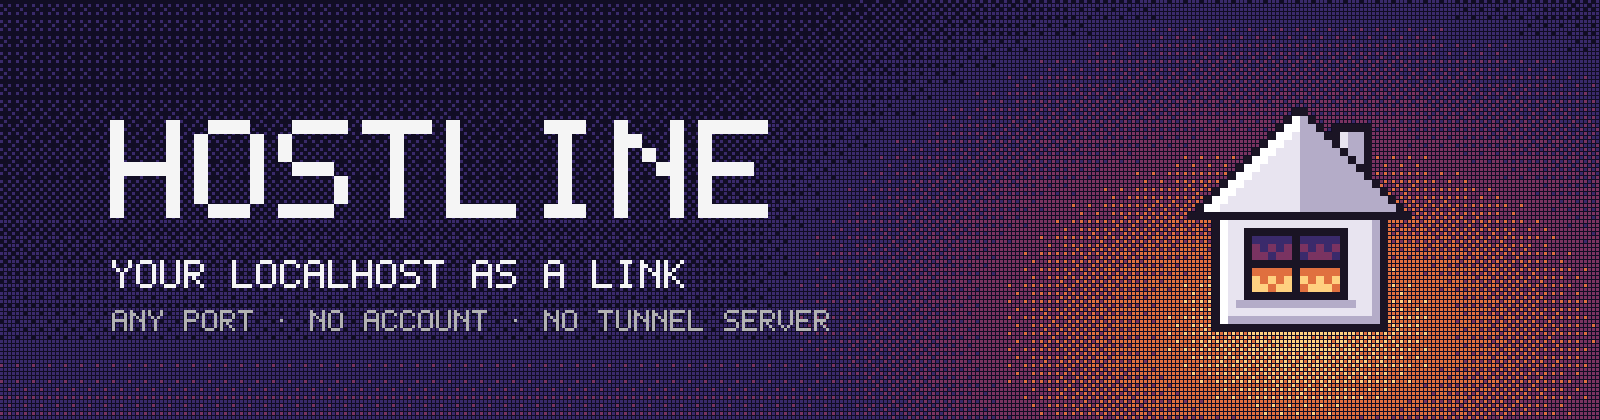
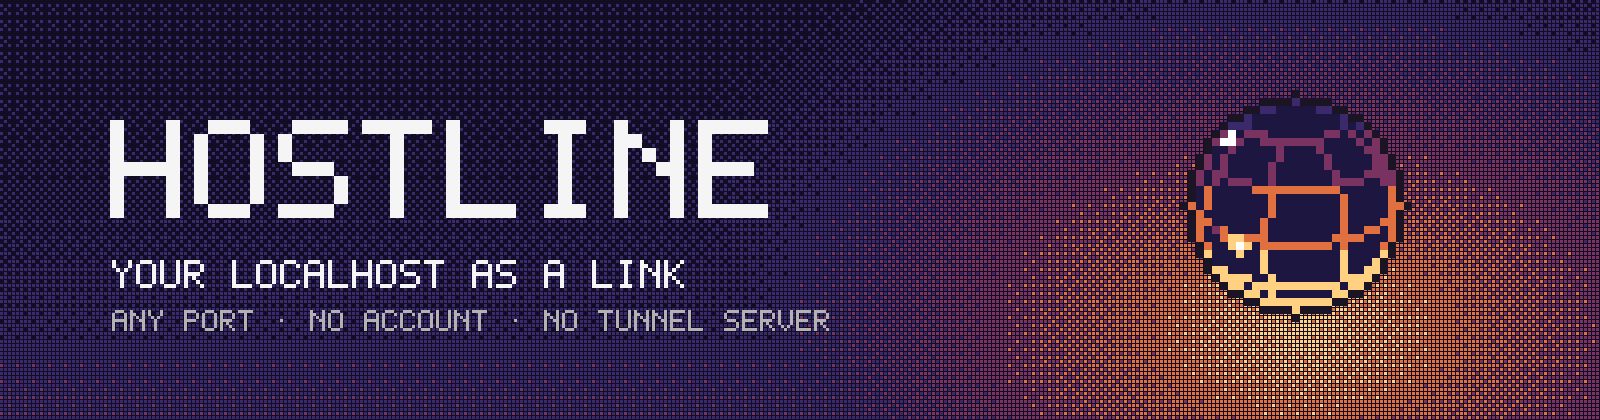
feat: replace the house mark with a turning globe

Changed region(s): [[0.7188, 0.2167, 0.875, 0.8048]]

diff --git a/tools/logo.py b/tools/logo.py
@@ -2,21 +2,24 @@
 
     python tools/logo.py
 
-assets/icon.png (512), assets/mark.png, assets/mark-lit.png and assets/mark-out.png (32: the
-window with its dusk, lit, and out), assets/banner.webp (the README header, its window lighting
-up) with assets/banner.png (the same banner, still, for reduced motion) and assets/preview.png
-(1200x630, the link preview of hostline.luannzin.com).
+assets/icon.png (512), assets/mark.png and assets/mark-out.png (32: the globe in the dusk, and
+out), assets/mark-spin.png and assets/mark-spin-lit.png (the globe turning in the dusk and lit,
+SPIN frames of 32x32 side by side, for the page a link opens), assets/banner.webp (the
+README header, the globe turning) with assets/banner.png (the same banner, still, for reduced
+motion) and assets/preview.png (1200x630, the link preview of hostline.luannzin.com).
 
-The mark is 32x32 pixel art, Deskline's and Sightline's sibling: a house with a dark outline, and
-in its window the dusk from luannzin.com's dither strip (violet, plum, ember, gold) in a 4x4 Bayer
-ordered dither. Your localhost is home; the window lights up while someone has the link open and
-goes out when the link ends. Pixels are placed one by one and scaled up with nearest-neighbour, so
-every size stays crisp.
+The mark is 32x32 pixel art, Deskline's and Sightline's sibling: a globe drawn as glowing lines,
+its meridians and parallels in the dusk from luannzin.com's dither strip (violet at the top,
+plum, ember, gold low down), seen from a little above, with a spark running its equator: your
+localhost, out on the world. It burns gold while someone has the link open and goes dim when the
+link ends. Pixels are placed one by one and scaled up with nearest-neighbour, so every size stays
+crisp.
 
 The banner and the preview are the same world at their sizes: a field of dots on a grid dithered
 from the night down to the dusk glow, the mark, and the name in a 5x7 pixel face drawn here.
 """
 
+import math
 import os
 
 from PIL import Image
@@ -46,64 +49,78 @@ def dither(ramp, t, x, y):
     return ramp[max(0, min(len(ramp) - 1, round(step)))]
 
 
-WINDOW = (10, 18, 20, 24)  # the glass, cross included: x0, y0, x1, y1
-CROSS = (15, 21)  # the column and row of the window's cross
+CX, CY, R = 15.5, 15.5, 13.0  # the globe
+TILT = math.radians(24)  # seen from a little above, so the parallels curve and the pole shows
+MERIDIAN, PARALLEL = math.pi / 4, math.pi / 6  # the grid's spacing
+DEEP = rgb("#1c1640")  # the globe's own dark, a step above the night it sits on
 
 
-def glass(x, y, light):
-    """The window's colour at (x, y). `light` 0 is out (the night), 1 is the dusk, 2 is lit (gold);
-    in between, the next state's dots arrive in Bayer order."""
-    x0, y0, x1, y1 = WINDOW
-    t = (y - y0) / (y1 - y0)
-    states = [
-        dither([NIGHT, DUSK[0]], 0.15, x, y),  # out
-        dither(DUSK, t, x, y),  # the dusk, darkest at the top
-        dither(DUSK[2:], 0.55 + 0.45 * t, x, y),  # lit
-    ]
-    i = min(1, int(light))
-    k = light - i
-    return states[i + 1] if BAYER[y % 4][x % 4] / 16 < k else states[i]
+def cell(x, y, spin):
+    """Which grid cell the globe shows at pixel (x, y), or None off the globe."""
+    dx, up = (x + 0.5 - CX) / R, (CY - y - 0.5) / R
+    d2 = dx * dx + up * up
+    if d2 > 1:
+        return None
+    nz = math.sqrt(1 - d2)
+    lat = math.asin(up * math.cos(TILT) + nz * math.sin(TILT))
+    lon = math.atan2(dx, nz * math.cos(TILT) - up * math.sin(TILT)) + spin
+    # the meridians stop at the polar circles, so the pole is a clean cap, not a knot
+    meridian = math.floor(lon / MERIDIAN) if abs(lat) < 2 * PARALLEL else None
+    return meridian, math.floor((lat + math.pi / 2) / PARALLEL)
 
 
-def mark(light=1.0):
-    """The 32x32 mark, its window out (0), holding the dusk (1) or lit (2)."""
+def on_equator(lon):
+    """The pixel showing the equator at `lon` (0 faces you)."""
+    x = CX + R * math.sin(lon)
+    y = CY + R * math.cos(lon) * math.sin(TILT)
+    return round(x - 0.5), round(y - 0.5)
+
+
+def mark(spin=0.0, state="dusk", spark=0.3):
+    """The 32x32 mark: a globe drawn as glowing lines, its meridians and parallels in the dusk
+    (violet at the top, gold low), and a spark running its equator: your localhost, out on the
+    world. `spin` turns the globe (radians), `spark` is where the spark is along the front of the
+    equator (0 to 1, left to right). `state`: "dusk" (the link opening), "lit" (someone's in: the
+    lines warm to ember and gold) or "out" (no one: the lines go dim, no spark)."""
     img = Image.new("RGBA", (32, 32), CLEAR)
     px = img.load()
-
-    def rect(x0, y0, x1, y1, c):
-        for y in range(y0, y1 + 1):
-            for x in range(x0, x1 + 1):
-                px[x, y] = c
-
-    # chimney, behind the roof
-    rect(20, 4, 24, 12, LINE)
-    rect(21, 5, 23, 12, WALL_SHADE)
-    rect(21, 5, 21, 12, WALL)
-    # walls: outline, fill, light from the upper left
-    rect(5, 13, 26, 29, LINE)
-    rect(6, 14, 25, 28, WALL)
-    rect(6, 14, 6, 28, WALL_LIT)
-    rect(7, 28, 25, 28, WALL_SHADE)
-    rect(25, 14, 25, 27, WALL_SHADE)
-    # roof: a 45-degree gable that overhangs the walls by two pixels, its left slope in the light
-    for y in range(2, 16):
-        half = y - 2
-        left, right = 15 - half, 16 + half
-        if y == 15:  # the eave's underside
-            left, right = 2, 29
-        for x in range(left, right + 1):
-            edge = x in (left, right) or y in (2, 15)
-            px[x, y] = LINE if edge else (WALL_LIT if x <= 15 and x - left < 3 else WALL_SHADE if x > 15 else WALL)
-    # the window: frame, glass, cross
-    x0, y0, x1, y1 = WINDOW
-    rect(x0 - 1, y0 - 1, x1 + 1, y1 + 1, LINE)
-    for y in range(y0, y1 + 1):
-        for x in range(x0, x1 + 1):
-            px[x, y] = glass(x, y, light)
-    rect(CROSS[0], y0, CROSS[0], y1, LINE)
-    rect(x0, CROSS[1], x1, CROSS[1], LINE)
-    # the sill
-    rect(x0 - 2, y1 + 2, x1 + 2, y1 + 2, WALL_SHADE)
+    ramp = {"dusk": DUSK, "lit": [DUSK[1], DUSK[2], DUSK[3], DUSK[3]], "out": [DUSK[0], DUSK[0], DUSK[1]]}[state]
+    for y in range(32):
+        for x in range(32):
+            here = cell(x, y, spin)
+            if here is None:
+                continue
+            dx, dy = (x + 0.5 - CX) / R, (y + 0.5 - CY) / R
+            d2 = dx * dx + dy * dy
+            # a line where the grid cell changes to the right or below, or at the globe's edge
+            right, below = cell(x + 1, y, spin), cell(x, y + 1, spin)
+            edge = right is None or below is None or d2 > 0.9
+            grid = (right is not None and right[0] != here[0]) or (below is not None and below[1] != here[1])
+            # the dusk by height, in solid bands: violet at the top, warming to gold low down
+            band = ramp[min(len(ramp) - 1, int((0.15 + 0.85 * (dy + 1) / 2) * len(ramp)))]
+            px[x, y] = band if edge or grid else DEEP
+    # a glint on the upper left
+    if state != "out":
+        for gx, gy in ((7, 6), (6, 7), (7, 7)):
+            px[gx, gy] = WALL_LIT
+    # the spark: a bright head running the equator's front, its tail fading behind it
+    if state != "out":
+        lon = (spark - 0.5) * math.pi * 0.9
+        for i, c in enumerate((WALL_LIT, DUSK[3], DUSK[3], DUSK[2], DUSK[1])):
+            px[on_equator(lon - i * 0.09)] = c
+        hx, hy = on_equator(lon)
+        for ox, oy in ((0, -1), (0, 1), (1, 0), (-1, 0)):
+            if px[hx + ox, hy + oy] != WALL_LIT:
+                px[hx + ox, hy + oy] = DUSK[3]
+        px[hx, hy] = WALL_LIT
+    # the family's dark outline: every clear pixel touching the art
+    art = [[px[x, y][3] > 0 for x in range(32)] for y in range(32)]
+    for y in range(32):
+        for x in range(32):
+            if art[y][x]:
+                continue
+            if any(0 <= x + ox < 32 and 0 <= y + oy < 32 and art[y + oy][x + ox] for ox, oy in ((-1, 0), (1, 0), (0, -1), (0, 1))):
+                px[x, y] = LINE
     return img
 
 
@@ -170,34 +187,35 @@ def field(w, h, glow, reach, cell=4):
     return img
 
 
-def banner(light=1.0):
+def banner(frame=5):
     """1600x420: the field with the glow at the bottom right, where the mark sits, the name
     and two lines in the pixel face."""
     img = field(1600, 420, (1300, 330), 900)
-    img.alpha_composite(scaled(mark(light), 256), (1172, 92))
+    img.alpha_composite(scaled(spun(frame), 256), (1172, 82))
     text(img, "HOSTLINE", 110, 120, 14, INK)
     text(img, "YOUR LOCALHOST AS A LINK", 112, 260, 4, INK)
     text(img, "ANY PORT · NO ACCOUNT · NO TUNNEL SERVER", 112, 310, 3, MUTED)
     return img
 
 
-# The window's light over the loop and how long each state rests (ms): the dusk, someone opens
-# the link and it lights up, then the link ends and it goes back to the dusk.
-LIGHTS = [(1.0, 1600), (2.0, 1600)]
-STEPS = 8  # frames for the dots of one state to arrive in Bayer order
+# One turn of the loop moves the globe one meridian on, where its grid looks the same again, and
+# runs the spark once along the equator, so the frames loop with no seam.
+SPIN = 16
+FRAME = 90  # ms
 
 
-def banner_loop():
-    """The banner as frames with durations: the window's dots change in Bayer order, one
-    sixteenth at a time, then rest."""
-    out = []
-    for (a, rest), (b, _) in zip(LIGHTS, LIGHTS[1:] + LIGHTS[:1]):
-        out.append((banner(a), rest))
-        for i in range(1, STEPS):
-            # lighting up adds the lit dots; going back adds the dusk's dots back over them
-            light = a + (b - a) * i / STEPS
-            out.append((banner(light), 60))
-    return out
+def spun(frame, state="dusk"):
+    """The mark at `frame` of the turn."""
+    k = frame / SPIN
+    return mark(spin=k * MERIDIAN, state=state, spark=k)
+
+
+def sprite(state):
+    """The turn as one strip, frame after frame, for a CSS steps() animation."""
+    img = Image.new("RGBA", (32 * SPIN, 32), CLEAR)
+    for f in range(SPIN):
+        img.alpha_composite(spun(f, state), (32 * f, 0))
+    return img
 
 
 def preview():
@@ -217,16 +235,17 @@ def main():
     os.makedirs(ROOT, exist_ok=True)
     scaled(mark(), 512).save(os.path.join(ROOT, "icon.png"))
     mark().save(os.path.join(ROOT, "mark.png"))
-    mark(2.0).save(os.path.join(ROOT, "mark-lit.png"))
-    mark(0.0).save(os.path.join(ROOT, "mark-out.png"))
+    mark(state="out").save(os.path.join(ROOT, "mark-out.png"))
+    sprite("dusk").save(os.path.join(ROOT, "mark-spin.png"))
+    sprite("lit").save(os.path.join(ROOT, "mark-spin-lit.png"))
     banner().save(os.path.join(ROOT, "banner.png"))
     # The README shows this one; banner.png stays for prefers-reduced-motion.
-    loop = banner_loop()
-    loop[0][0].save(
+    loop = [banner(f) for f in range(SPIN)]
+    loop[0].save(
         os.path.join(ROOT, "banner.webp"),
         save_all=True,
-        append_images=[f for f, _ in loop[1:]],
-        duration=[ms for _, ms in loop],
+        append_images=loop[1:],
+        duration=FRAME,
         loop=0,
         lossless=True,
         method=6,
